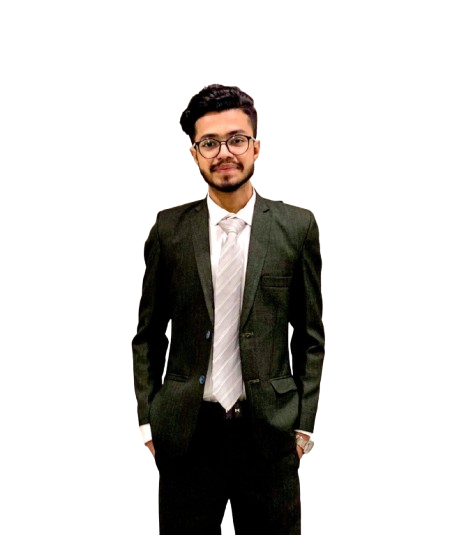
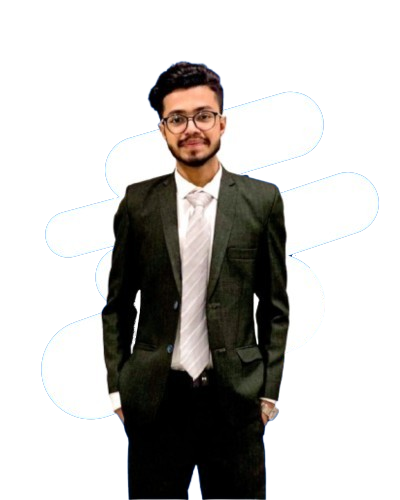
pfp upscaled

diff --git a/Frontend/src/components/sections/About.module.css b/Frontend/src/components/sections/About.module.css
@@ -106,16 +106,16 @@
   height: 500px;
   border-radius: 20px;
   overflow: hidden;
-  border: 2px solid #00E7FF;
   box-shadow: 0 0 30px rgba(0, 231, 255, 0.2);
 }
 
 .profileImage {
-  width: 100%;
+  padding-left: 5%;
+  width: 86%;
   height: 100%;
-  object-fit: cover;
-  filter: brightness(1.1) contrast(1.2);
-  transform: scale(1.2);
+  object-fit:contain;
+  filter: brightness(1.1) contrast(1);
+  transform: scale(1.4);
   transition: transform 0.3s ease;
 }
 
@@ -126,11 +126,7 @@
   left: 0;
   right: 0;
   bottom: 0;
-  background: linear-gradient(
-    45deg,
-    rgba(0, 231, 255, 0.1),
-    rgba(0, 0, 0, 0.3)
-  );
+  
   z-index: 1;
 }
 

diff --git a/Frontend/src/components/sections/Projects.tsx b/Frontend/src/components/sections/Projects.tsx
@@ -41,6 +41,15 @@ const projects: Project[] = [
     githubLink: 'https://github.com/MCodecreeper/Portfolio-Website.git',
     image: '/assets/3d_portfolio.png',
   },
+  {
+    title: 'BUXAAR',
+    description:
+      'Advanced E-Commerce platform with 15+ interfaces, modern UI and smooth animations. ',
+    techStack: ['React', 'TailwindCSS', 'GSAP', 'TypeScript'],
+    liveLink: '',
+    githubLink: 'https://github.com/MCodecreeper/BUXAAR',
+    image: '/assets/ecommerce.png',
+  },
 ];
 
 const Projects: React.FC = () => {

diff --git a/Frontend/src/components/sections/About.tsx b/Frontend/src/components/sections/About.tsx
@@ -5,7 +5,7 @@ import { OrbitControls } from '@react-three/drei';
 import OrbitingTimeline from '../3d/OrbitingTimeLine';
 import styles from './About.module.css';
 
-const profileImage = '/assets/hamza.png';
+const profileImage = '/assets/hamza.jpg';
 
 interface Stat {
   value: number;
